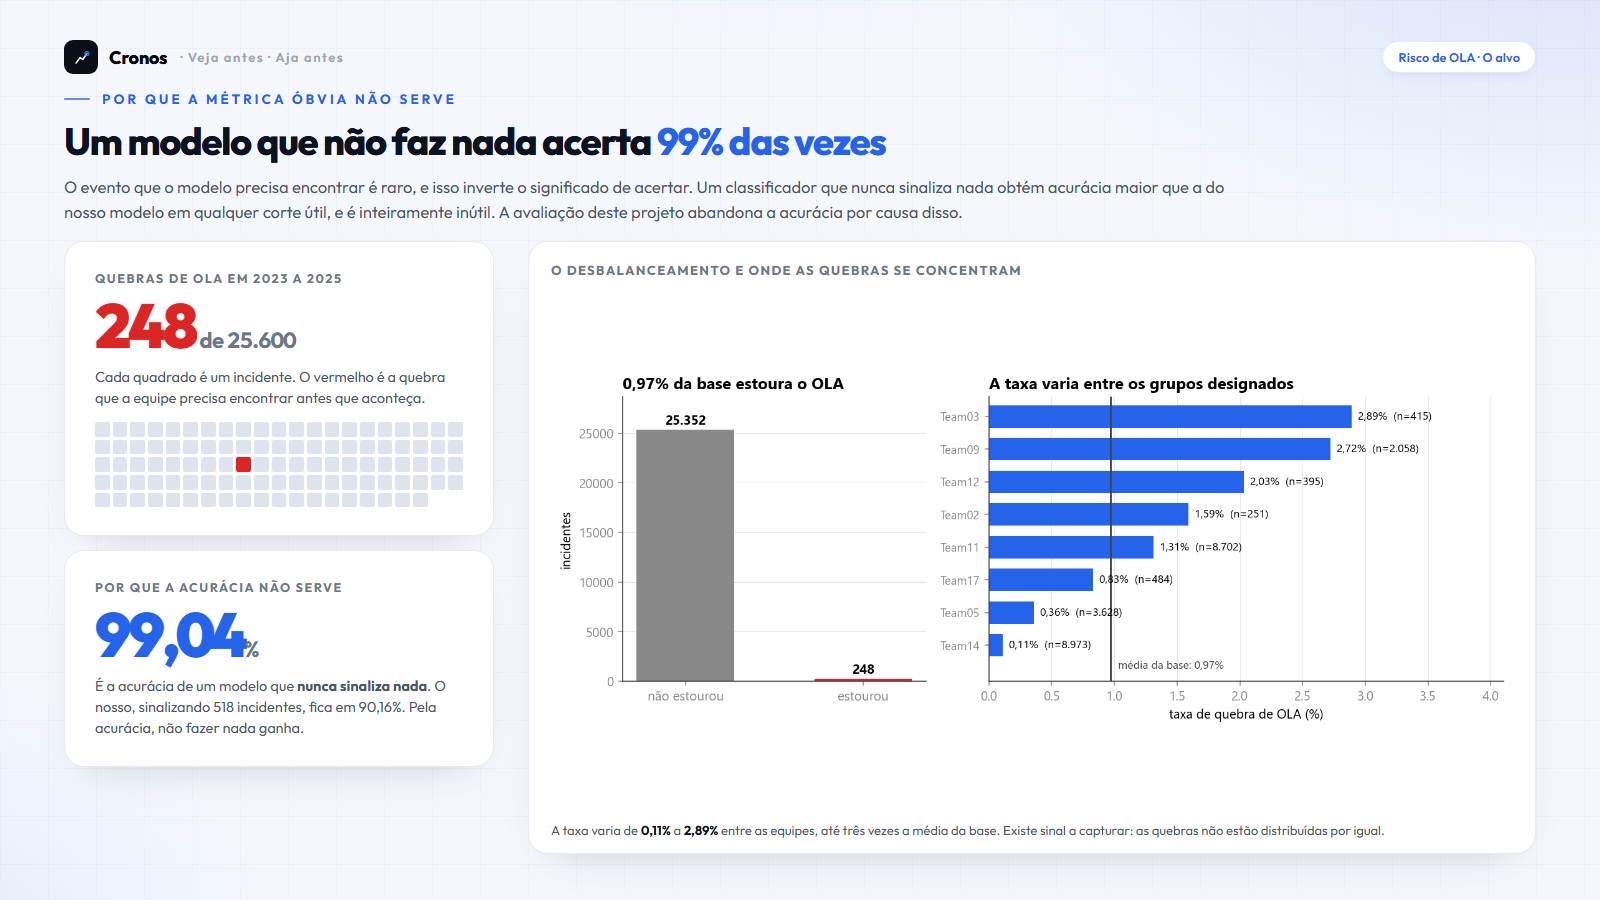
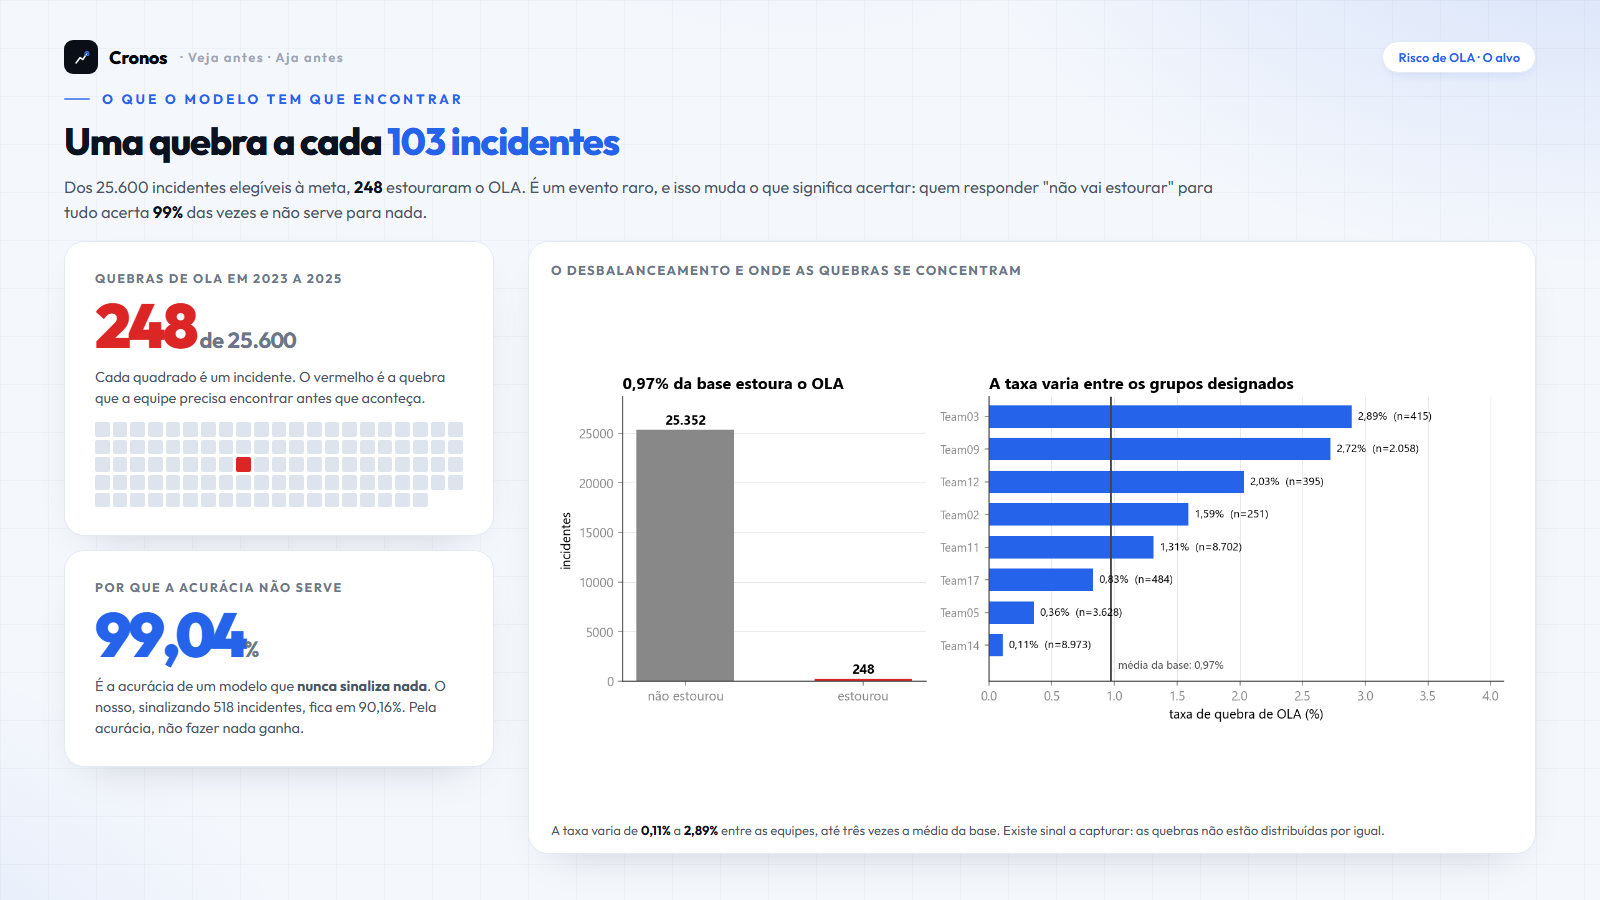
revert: desfaz a retitulação do slide 21 e as referências cruzadas nos slides 21 e 22
Igor preferiu as versões anteriores. Duas reversões:

O slide que apresenta o alvo volta à manchete original, sobre a raridade do evento. A alteração
anterior havia trocado o foco para a armadilha da acurácia com o objetivo de não repetir o número
já apresentado na seção de exploração. A repetição volta a existir, por escolha.

Os slides do gradiente de familiaridade voltam ao texto anterior, sem a frase que apontava para a
verificação completa na seção 04.

As demais alterações de narrativa e de densidade permanecem. A página de comparação foi
regenerada e reflete o estado atual.

Changed region(s): [[0.0312, 0.0933, 0.7812, 0.2489]]

diff --git a/prototipos/slides/mvp/deck/d21a.html b/prototipos/slides/mvp/deck/d21a.html
@@ -65,9 +65,9 @@ b,strong{font-weight:700}
 .r21 .figwrap .ff{font-size:13px;color:var(--tx);margin-top:8px;line-height:1.4}
 .r21 .figwrap .ff b{color:var(--head)}
 </style></head><body><div class="slide light r21"><div class="mesh"></div><div class="grid-bg"></div><div class="hd"><div class="bi"><svg viewBox="0 0 28 28" fill="none"><path d="M6 22L12 14L16 17L22 8" stroke="#fff" stroke-width="2.2" stroke-linecap="round" stroke-linejoin="round"/><circle cx="22" cy="8" r="3" fill="none" stroke="#3B82F6" stroke-width="1.5"/><circle cx="22" cy="8" r="1.2" fill="#3B82F6"/></svg></div><div class="bn">Cronos</div><span class="bt">· Veja antes · Aja antes</span><div class="tag">Risco de OLA · O alvo</div></div><div class="body">
-      <div class="eb">Por que a métrica óbvia não serve</div>
-      <div class="tt">Um modelo que não faz nada acerta <span class="hl">99% das vezes</span></div>
-      <div class="sub">O evento que o modelo precisa encontrar é raro, e isso inverte o significado de acertar. Um classificador que nunca sinaliza nada obtém acurácia maior que a do nosso modelo em qualquer corte útil, e é inteiramente inútil. A avaliação deste projeto abandona a acurácia por causa disso.</div>
+      <div class="eb">O que o modelo tem que encontrar</div>
+      <div class="tt">Uma quebra a cada <span class="hl">103 incidentes</span></div>
+      <div class="sub">Dos 25.600 incidentes elegíveis à meta, <b>248</b> estouraram o OLA. É um evento raro, e isso muda o que significa acertar: quem responder "não vai estourar" para tudo acerta <b>99%</b> das vezes e não serve para nada.</div>
       <div class="row">
         <div class="left">
           <div class="big"><div class="lb">Quebras de OLA em 2023 a 2025</div>

diff --git a/prototipos/slides/mvp/deck/d22a.html b/prototipos/slides/mvp/deck/d22a.html
@@ -98,7 +98,7 @@ b,strong{font-weight:700}
 </style></head><body><div class="slide light r22"><div class="mesh"></div><div class="grid-bg"></div><div class="hd"><div class="bi"><svg viewBox="0 0 28 28" fill="none"><path d="M6 22L12 14L16 17L22 8" stroke="#fff" stroke-width="2.2" stroke-linecap="round" stroke-linejoin="round"/><circle cx="22" cy="8" r="3" fill="none" stroke="#3B82F6" stroke-width="1.5"/><circle cx="22" cy="8" r="1.2" fill="#3B82F6"/></svg></div><div class="bn">Cronos</div><span class="bt">· Veja antes · Aja antes</span><div class="tag">Risco de OLA · Por que a prioridade não prevê</div></div><div class="body">
       <div class="eb">O ponto de partida do modelo</div>
       <div class="tt">O que a operação já viu, ela <span class="hl">resolve</span></div>
-      <div class="sub">Agrupamos os incidentes pela frequência com que aquele mesmo problema aparece na base. Quanto mais familiar o problema, menos ele estoura o OLA. Aqui o achado entra como justificativa do modelo de risco; a verificação completa, com os sete testes que ele resistiu, está na seção 04.</div>
+      <div class="sub">Agrupamos os incidentes pela frequência com que aquele mesmo problema aparece na base. Quanto mais familiar o problema, menos ele estoura o OLA. A relação é gradual, e sobreviveu a todos os controles que aplicamos.</div>
       <div class="row">
         <div class="grad">
           <div class="gh">Taxa de quebra de OLA por familiaridade do problema</div>

diff --git a/prototipos/slides/mvp/deck/d22b.html b/prototipos/slides/mvp/deck/d22b.html
@@ -98,7 +98,7 @@ b,strong{font-weight:700}
 </style></head><body><div class="slide light r22"><div class="mesh"></div><div class="grid-bg"></div><div class="hd"><div class="bi"><svg viewBox="0 0 28 28" fill="none"><path d="M6 22L12 14L16 17L22 8" stroke="#fff" stroke-width="2.2" stroke-linecap="round" stroke-linejoin="round"/><circle cx="22" cy="8" r="3" fill="none" stroke="#3B82F6" stroke-width="1.5"/><circle cx="22" cy="8" r="1.2" fill="#3B82F6"/></svg></div><div class="bn">Cronos</div><span class="bt">· Veja antes · Aja antes</span><div class="tag">Risco de OLA · Por que a prioridade não prevê</div></div><div class="body">
       <div class="eb">O ponto de partida do modelo</div>
       <div class="tt">O que fura prazo é o caso <span class="hl">inédito</span></div>
-      <div class="sub">Agrupamos os incidentes pela frequência com que aquele mesmo problema aparece na base. Quanto mais familiar o problema, menos ele estoura o OLA. Aqui o achado entra como justificativa do modelo de risco; a verificação completa, com os sete testes que ele resistiu, está na seção 04.</div>
+      <div class="sub">Agrupamos os incidentes pela frequência com que aquele mesmo problema aparece na base. Quanto mais familiar o problema, menos ele estoura o OLA. A relação é gradual, e sobreviveu a todos os controles que aplicamos.</div>
       <div class="row">
         <div class="grad">
           <div class="gh">Taxa de quebra de OLA por familiaridade do problema</div>
